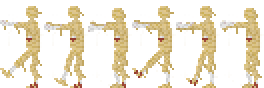
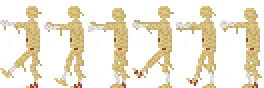
Изменена анимация ходьбы мумии + Исправлена неработоспособность предыдущего коммита

diff --git a/js/map.js b/js/map.js
@@ -27,11 +27,7 @@ const map = [
   'GGGGGGGgggGGGGGGGGGGGGSSSSGGGGGGGGGGGGGGG                              FFF     G',
   'GGGGGGGgggGGGGGGGGGGGGGGGGGGGGGGGG      GGG                             F      G',
   'GGGGGGGgggGGGGGGGGGGGGGGGGGGGGGGGGG     G                                      G',
-<<<<<<< HEAD
-  'GGGGGGGgggGGGGGGGGGGGGGGGGGGGGGGGGGGGGGGGGGGGGGGGGGLLLGGGGGGWWWGGGGGGGggggGGGGGG',
-=======
   'GGGGGGGgggGGGGGGGGGGGGGGGGGGGGGGGGGGGGGGGGGGGGGGGGGGGWWWGGGGGGGGGGGGGGggggGGGGGG',
->>>>>>> bec4b8a00d7f8e8ce1a8ffe4bc4320de10923229
   'GGGGGGGgggGGGGGGGGGGGGGGGGGGGGGGGGGGGGGGGGGGGGGGGGGGGGGGGGGGGGGGGGGGGggggGGGGGGG',
   'GGGGGGGgggGGGGGGGGGGGGGGGGGGGGGGGGGGGGGGGGGGGGGGGGGGGGGGGGGGGGGGGGGGggggGGGGGGGG',
   'GGGGGGGggggggggggggggggggggggggggggggggggggggggggggggggggggggggggggggggGGGGGGGGG',
